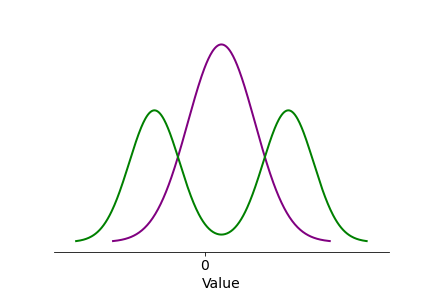
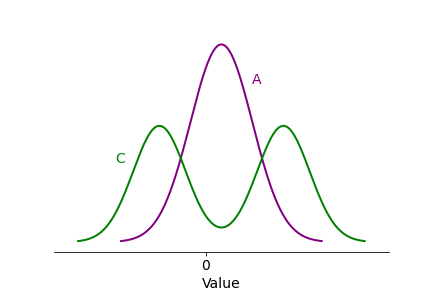
Nearly done (?) with distr_RL

Changed region(s): [[0.1806, 0.1562, 0.8426, 0.8438], [0.4514, 0.875, 0.5116, 0.9375]]

diff --git a/content/posts/2020_distr_RL/index.md b/content/posts/2020_distr_RL/index.md
@@ -4,48 +4,51 @@ date: 2020-12-01T07:04:28Z
 draft: true
 ---
 
-*How does your brain learn to distinguish good things from bad things, and perhaps even more difficult: something average from something that might either be very good or very bad? Are you an optimist or a pessimist, or both? And how exactly does one become one or the other?*
+<!-- 
+Todo:
+* Fotnoter på nåt vis?
+* A/B/C i figs
+-->
 
-Consider a situation where you need to decide on what to do next, and where you have reason to believe your decision will have some sort of positive or negative impact on yourself. If you happen to be a rat in a lab where someone is doing research on reinforcement learning, you might be choosing between two levers, where one dispenses food, and the other... yeah, of course, electric shocks. Thankfully, in our human lives we are rarely directly set up for pain in this way, but the general type of choice situation is still very common, with low, high, or intermediate stakes: Which food should I pick from the buffet table? Do I cross the street now, or would it be safer to wait for that car to pass first? Which ping pong serve shold I opt for against this opponent, when she is positioned in that way, at this point in the match? If I am ahead in the game, I might play it safe and do something easy and solid, setting me up nicely for a ball that I stand a good chance of winning, but if I am behind and tired (ping pong is hard work) I might prefer to go for my difficult Deluxe Extra(TM) serve, the one which few opponents can handle but which half of the times I try it goes straight into the net.
+*How does your brain learn to distinguish good things from bad things, and perhaps even more difficult: something average from something that might either be very good or very bad? Are you an optimist or a pessimist, or both? And how exactly does one become one or the other? This post talks about what kind of methods the brain mights be using for learning from experience, and an interesting recent development in this area combining both AI and neuroscience. The text covers some mathematical concepts, but tries to do so in a generally accessible way.*
 
-All of these situations share the common denominator of *uncertainty* - due to inherent randomness in the world, my limited information about the state of the world, or (typically) both. For each choice (lever, road-crossing time, food, ping pong serve) I might have a rough, but generally not an exact idea of what will happen next, and how good or bad that might be for me. We can illustrate it thus, as a distribution of the probable *values* (or *rewards/punishments*, or *utilities*) of making a certain decision:
+Consider a situation where you need to decide on what to do next, and where you have reason to believe your decision will have some sort of positive or negative impact on yourself. If you happen to be a mouse in a lab where someone is doing research on reinforcement learning - learning from rewards and punishments -  you might be choosing between two levers, where one dispenses food, and the other... yeah, of course, electric shocks. Thankfully, in our human lives we are rarely directly set up for pain in this way, but the general type of choice situation is still very common, with low, high, or intermediate stakes: Which food should I pick from the buffet table? Do I cross the street now, or would it be safer to wait for that car to pass first? Which ping pong serve shold I opt for against this opponent at this point in the match? If I am ahead in the game, I might play it safe and do something easy and solid, setting me up nicely for a ball that I stand a good chance of winning, but if I am behind and tired (ping pong is hard work) I might prefer to go for my difficult Deluxe Extra™ serve, the one which few opponents can handle but which half of the times I try it goes straight into the net.
+
+All of these situations share the common denominator of *uncertainty*. This uncertainty can be thought of as arising from inherent randomness in the world, from my limited information about the state of the world, or from both. For each choice (lever, road-crossing timing, food item, ping pong serve) I am likely have a rough but not exact idea of what will happen next, and how good or bad that might be for me. We can illustrate this as below, as a distribution of the probable *values* (or *rewards/punishments*, or *utilities*) of making a certain decision:
 
 ![A bell curve distribution of possible value](onegaussian.png)
 
-###Add plus and minus to indicate value sign###
-
 If the distribution curve above is the "truth" about a certain situation - the *actual* distribution of expected values of a decision (for a certain decision-maker with a certain access to information about the situation) - the curve illustrates a sort-of-OK but not entirely reliable decision. It might be choosing the plain cheese pizza from the buffet, or going for one of my more run of the mill ping pong serves. The curve above shows that the outcome is more likely to be good than bad (more of the distribution of values is to the positive, right side of zero), sometimes things can go really well (the right "tail" of the distribution), but negative outcomes are also very much within the realm of possibility. 
 
-It is clear that as decision-makers we quite often have this type of foreknowledge about our decisions. Since pizza and ping-pong both are relatively new inventions, they are not likely to be encoded in any way in our DNA (yet), meaning that any foreknowledge needs to have been acquired during the decision-maker's experience of previous similar decision situations, and stored in the decision-maker's brain somehow. Behold, a lifetime of cheese pizza slices, or attempts at that particular ping pong serve, in the form of a series of random draws from the probability distribution of values:
+It is clear that as decision-makers we quite often have this type of foreknowledge about our decisions. Since pizza and ping-pong both are relatively new inventions, they are not likely to be encoded in any way in our DNA (yet!), meaning that any foreknowledge needs to have been acquired during our experience of previous similar decision situations, and is stored in our brains somehow. Behold, a lifetime of cheese pizza slices, or attempts at that particular ping pong serve, in the form of a series of random draws from the probability distribution of values:
 
 ![A buildup of random values drawn from a bell curve distribution](onegaussian.gif)
 
-But how do these past experiences persist in the brain to form foreknowledge for decisions? One possibility could be that the brain remembers every single past event and exactly how well or badly it turned out, in other words storing the full and detailed set of outcomes shown above. That, however, doesn't sound quite economical. (Nor does it seem very similar to the subjective feeling of what decision-making is like, but that's not necessarily a good indicator of actual brain function). In mathematical models of reinforcement learning, for rats, humans, and robots alike, it is often instead assumed that decision-makers just keep track of a single expected value for the decision, roughly corresponding to an *average* over the values experienced in the past. More specifically, the models suggest that this happens by a simple rule: When the actual obtained value from a decision is better than our expectation (the pizza is tastier, the ping pong opponent more thrown off guard by our serve), for future reference we increase our expectation for that decision somewhat, and vice versa if the outcome is worse than expected. Here is the same life history as above, but now slowed down a little, and with an expected value - starting at zero just to start somewhere - and then ping ponging (!) about as it is getting updated after each observation:
+But how do these past experiences persist in the brain to form foreknowledge for decisions? One possibility could be that the brain remembers every single past event and exactly how well or badly it turned out, in other words storing the full and detailed set of outcomes shown above. That, however, doesn't sound quite economical. (Nor does it seem very similar to the subjective feeling of what decision-making is like, but that's not necessarily a good indicator of actual brain function). In mathematical models of reinforcement learning, for mice, humans, and robots alike, it is often instead assumed that decision-makers just keep track of a single expected value for the decision, roughly corresponding to an *average* over the values experienced in the past. More specifically, the models suggest that this happens by a simple rule: When the actual obtained value from a decision is better than our expectation (the pizza is tastier, the ping pong opponent more thrown off guard by our serve), for future reference we increase our expectation for that decision somewhat, and vice versa if the outcome is worse than expected. Here is the same life history as above, but now slowed down a little, and with an expected value - starting at zero (just to start somewhere) - and then ping ponging (!) about as it is getting updated after each observation:
 
 ![An expected average value prediction getting updated based on the same random values as above](onegaussian_oneestimator.gif)
 
-You may notice two things: First, to keep it simple, I have stuck above to updating the expectation by the same fixed amount after each observation (in many versions of this type of model the update is bigger when the deviation between expectation and observation is bigger, and quite often it is also assumed that the update becomes smaller over time). Second, after a while the expectation comes to hover around the location of the peak of the true distribution of values. This is because once the expectation is at this location, observed values will be better than expected 50 % of the time, and worse than expected the other 50 %, such that overall there is as much movement in both directions. In other words, the expected value *converges to* the average of the true distribution. (More specifically it converges to the distribution's median; in versions of the model with bigger updates for bigger prediction errors, it would converge toward the mean - for the example distribution here median and mean are the same, though.)
+You may notice two things: First, to keep it simple, I have stuck above to updating the expectation by the same fixed amount after each observation (in many versions of this type of model the update is bigger when the deviation between expectation and observation is bigger, and quite often it is also assumed that the update becomes smaller over time). Second, and importantly, after a while the expectation comes to hover around the location of the peak of the true distribution of values. This is because once the expectation is at this location, observed values will be better than expected 50 % of the time, and worse than expected the other 50 %, such that overall there is as much movement in both directions. In other words, the expected value *converges to* the average of the true distribution. (More specifically, it converges to the distribution's median; in versions of the model with bigger updates for bigger prediction errors, it would converge toward the mean - for the example distribution here median and mean are the same, though.)
 
 This is all well and good, but it only really starts becoming useful when I apply the same learning rule to several alternative decisions. Below is a lifetime of experience of *two* different buffet choices (maybe cheese pizza vs french fries) or two different ping pong serves:
 
 ![Random values drawn from two bell curve distributions with slightly different averages](twogaussians.gif)
 
-The value observations above come from two slightly different distributions - in other words the average values of the two options are not the same, but you can see that without the true distribution curves included things look rather messy (especially since I have opted to plot the two sets of observations "on top" of each other...), and it's hard to know what option to prefer. The reinforcement learning assumption, then, is that both of these past sets of experiences are kept track of by the same rule as mentioned above, but separately for each decision option. Here is the same set of observations again, slower, and with two of those little reinforcement learning ping pong balls, one for each decision option:
+The value observations above come from two slightly different distributions - in other words the average values of the two options are not the same, but you can see that without the true distribution curves (which in reality we never have access to) things look rather messy, and it's hard to know what option to prefer. The reinforcement learning assumption, then, is that both of these past sets of experiences are kept track of by the same rule as mentioned above, but separately for each decision option. Here is the same set of observations again, slower, and with two of those little reinforcement learning ping pong balls, one for each decision option:
 
 ![Expected average value predictions getting updated for the same random values drawn as in the previous figure](twogaussians_oneestimator.gif)
-###Add A and B for the options###
 
-You can see above that the reinforcement learning rather quickly settles on the idea that option A (let's say the pizza) is better, on average, than option B (the french fries), and that this is in line with the underlying true distributions - which I have included above, but which the reinforcement learning does not have access to at all. Thus, you can see that it is enough for a robot, or the brain of a rat or a human, to keep track of one such expectation per decision option, to know which option among a set of alternatives is likely to give the best average outcome - something which is obviously very useful when making these kinds of decisions.
+You can see above that the reinforcement learning rather quickly settles on the idea that option A (let's say the pizza) is better, on average, than option B (the french fries), and that this is in line with the underlying true distributions - which I have now included above for clarity. Thus, you can see that it is enough for a robot, or the brain of a mouse or of a human, to keep track of one such expectation per decision option, to know which option among a set of alternatives is likely to give the best average outcome - something which could obviously be very useful when making these kinds of decisions.
 
-In reality, there are of course lots of complications to this story. For example, the value of different decision alternatives might be highly context-dependent - what you expect from a food item is likely to depend on a lot of other pieces of information besides the crude identification of the item as "cheese pizza", like the exact appearance of the specific slice itself, and the general setting (are you in an Italian or a Swedish restaurant?). In this sense, we rarely face *exactly* the same decision situation multiple times, and a lot of the actual art of reinforcement learning lies in being able to make use of all of the specific bits of information available in a given situation, in a way that still draws meaningfully on past similar (but not identical) experiences, to nevertheless arrive at a sensible expectation of value for a decision option.
+In reality, there are of course lots of complications to this story. For example, the value of different decision alternatives might be highly context-dependent - what you expect from a food item is likely to depend on a lot of other pieces of information besides the crude identification of the item as "cheese pizza", such as the exact appearance of the specific pizza itself, and the general setting (are you in an Italian or a Swedish restaurant?). In this sense, we rarely face *exactly* the same decision situation multiple times, and a lot of the actual art of reinforcement learning lies in being able to make use of all of the specific bits of information available in a given, mostly novel situation, in a way that still draws meaningfully on past similar (but not identical) experiences, to arrive at a sensible expectation of value for each decision option.
 
-The specific complication I would like to highlight here, however, relates to the observation that quite often just an expectation of average value isn't enough. In the example A-B choice above, the spread of values was similar between the two options, but what if it instead had looked like this?
+The specific complication I would like to highlight here, however, relates instead to the observation that quite often just an expectation of average value doesn't provide a very complete picture of the options at hand. In the example A-B choice above, the spread of values was similar between the two decision alternatives, but what if it instead had looked like this?
 
 ![Two bell curve distributions, with one having a lower average but also a more narrow spread](twogaussians_diffvar.png)
 
-A is still better than B on average, but now A carries an element of risk: Its leftmost tail extends to more negative values than the leftmost tail of B, meaning that if we are unlucky, choosing A *could* turn out to be a much worse option than B. Consider for example the road-crossing situation I mentioned earlier. Crossing in front of the car (option A) will on average get us to our goal more quickly than waiting for the car to pass (option B), but it might be that the car is driving at a high speed, causing a very negative outcome in the form of a crash or a scary near-miss.
+A is still better than B on average, but now A carries an element of risk: Its leftmost tail extends to more negative values than the leftmost tail of B, meaning that if we are unlucky, choosing A *could* turn out to be a much worse option. This type of risk assessment is part of for example the road-crossing situation I mentioned earlier: Crossing in front of the car (option A) will on average get us to our goal more quickly than waiting for the car to pass (option B), but it might be that the car is driving at a high speed, such that crossing in front if it might cause a very negative outcome in the form of a crash or a scary near-miss.
 
-And there is really no limit to how complicated these value distributions can be. Consider the choice of ping pong serve, where my difficult Deluxe Extra(TM) signature serve yields one of two very distinct possibilities, either a very high likelihood of winning the ball, or an immediate loss, as illustrated by distribution C below:
+And there is really no limit to how complicated these value distributions can be. Consider the choice of ping pong serve, where as mentioned my difficult Deluxe Extra™ signature serve yields one of two very distinct possibilities, either a high likelihood of winning the ball, or an immediate loss, as (schematically) illustrated by distribution C below:
 
 ![One bell curve distribution, and another distribution consisting of two bell curves on either side of the first distribution's peak](oneandtwogaussians.png)
 
@@ -56,46 +59,42 @@ You might notice that above I have sneakily positioned the peaks of the C distri
 
 (The expectation for C drifts around more than the one for A, because there are less observations near the average for C, making the convergence weaker, but the averages for A and C are the same.) 
 
-This leads us to the idea of *distributional reinforcement learning*, and the whole thing about optimism and pessimism I mentioned at the outset.  The update rule we have used so far treats positive and negative value prediction errors (the deviations between expected and observed value) the same, something we could perhaps visualise as follows:
+This leads us, at long last, to what I said about optimism and pessimism at the outset of this post. The update rule we have used so far treats positive and negative value prediction errors (the deviations between expected and observed value) the same, something we could perhaps visualise as follows - the expectation moves equal distances in both directions:
 
 ![Circle representing the estimator, with two equal-length arrows extending from the estimator to the left and right](averageestimator.png)
 
-AI researchers, however, came up with a neat idea: What if the estimator responds more to one type of error, for example updating the expectation more if the observed value is lower than expected, like so?:
+AI researchers, however, have come up with a neat idea: What if the expectation were to respond more strongly to one type of error, for example updating the expectation more if the observed value is lower than expected, like so?:
 
-![Circle representing the estimator, with two equal-length arrows extending from the estimator to the left and right](pessimistestimator.png)
+![Circle representing the estimator, with a long arrow to the left and a short arrow to the right](pessimistestimator.png)
 
-Look what happens now:
+Look what happens now, when the expectation takes larger "jumps" to the left:
 
-![Random values drawn from a single bell curve distribution, and an estimator getting updated using these, with a larger update for negative prediction errors](onegaussian_onepessimistestimator.gif)
+![Random values drawn from a single bell curve distribution, and an estimator getting updated from these observations, with a larger update for negative prediction errors](onegaussian_onepessimistestimator.gif)
 
-This expectation no longer converges to the average of the distribution, but instead to a lower, more  *pessimistic* expectation. The exact place in the distribution it converges to depends on the exact balance of how it responds to positive and negative prediction errors (the relative lengths of the leftward and rightward arrows in the illustration). We can now define as many of these expectations as we want, with different degrees of pessimism, or analogously different degrees of optimism, for expectations that get updated more for positive prediction errors:
+And for the two-peaked distribution:
 
-![Random values drawn from the same bell curve distribution, but now with five different estimators of differing degrees of optimism or pessimism, converging to different values](onegaussian_fiveestimators.gif)
+![Random values drawn from a distribution with two bell curve peaks, and an estimator getting updated from these observations, with a larger update for negative prediction errors](twogaussians_onepessimistestimator.gif)
 
-###Plot different estimators at different y locations###
+See what happened here? This type of expectation no longer converges to the average of the distribution, but instead to a lower, more *pessimistic* expectation. It will converge to a place where most often the observations are larger than its expectation, but since it only moves very little in response to these errors, and instead it moves a lot to the left at those few occasions where things happen to be even worse than it expects, things balance out. 
 
-... doesn't respond much to positive prediction errors. This means that whenever that guy sees something that is better than he is predicting, he will only very weakly respond to it, and not update his prediction much, but when something is worse than his prediction, this will cause a larger shift. The effect is as follows:
+I find this a fascinating perspective on what it might mean to be a pessimist. Typically, this is defined as "having low expectations" or something similar - but where does that expectation come from? The reinforcement learning type of definition operates at this level instead, defining a pessimist as someone who isn't very impressed by things going better than expected, but who responds to any setback with a resounding "told you so!!". Conversely, an optimist is someone who says "told you so!!" when things go better than expected, and who isn't much affected by setbacks. In other words, the optimist is this guy:
 
-GIF: A and C with pessimist learning rule
+![Circle representing the estimator, with a short arrow to the left and a long arrow to the right](optimistestimator.png)
 
-Notice what happened? Even though this prediction is wrong more than half of the time, most often predicting too small values, since the learning rule cares relatively less about these positive errors, a balance will be achieved at a value that is lower than the average. About serve A it will say.. About C: it will go into the net! ... In short, this learning rule is a pessimist. I think this is interesting... Rather than just saying that a pessimist is someone who thinks things will generally go badly, we can consider the pessimist as someone who is not so easily impressed by good news, but as soon as bad news arrive he goes "I told you so!" and massively adapts to that occasion.
+From these differing modes of responding to good news and bad news, the low versus high expectations typical of pessimists and optimists then emerge.
 
-And you might have guessed that to become optimist in our predictions, we just need to do the opposite, and care more about good news (positive prediction errors) than bad ones (negative prediction errors). Let's put all three learning rules together:
+To keep track of an entire *distribution* of values for a decision option, we can now choose to learn a set of different expectations, of varying degrees of pessimism and optimism. This is of course a bit more work than just maintaining a single expected average per decision, but still much less than remembering every past event, and importantly it allows us to finally tell our two ping pong serves apart. As you can see below, for the conservative serve (the single-peaked distribution) the optimistic and pessimistic expectations are just minor tweaks of the average expectation, whereas for the Deluxe Extra™ serve (the double-peaked distribution), the different expectations now clearly express both the positive cheer of "this serve will win you the ball straight away" versus the gloomier "you'll just put it in the net". 
 
-FIG: three learning rules
+![Random values drawn from a single bell curve distribution, with five different estimators of differing degrees of optimism or pessimism, converging to different values](onegaussian_fiveestimators.gif)
 
-GIF: A and C with three learning rules
+![Random values drawn from a distribution with two bell curve peaks, with five different estimators of differing degrees of optimism or pessimism, converging to different values](twogaussians_fiveestimators.gif)
 
-So now, instead of remembering each past separate occasion of A and C separately, we are keeping track of these three predictions, and this allows us to separate the safe ping pong serve from the Deluxe Extra(TM)... 
+Above I have now also plotted the exact locations these various expectations should converge to theoretically (these are *quantiles* of the distributions, and would be *expectiles* in the version of the learning rule which takes larger update steps for larger errors). 
 
-This works for any shape of the distribution of value, and we can add arbitrary numbers of little predictors of varying degrees of optimism. You can play around with this figure if you want...
+AI researchers call this *distributional reinforcement learning*, and in an exciting turn of events, it was recently shown that also biological brains might be doing pretty much exactly the same thing - a very nice example of neuroscience insight arising out of ideas in machine intelligence. It has been established for quite a while that brains keep track of something which looks like expected average values of decisions, but after seeing the benefits of distributional reinforcement learning algorithms in artificial agents a bunch of researchers at DeepMind got curious. Armed with insights and predictions arising from the AI research, these researchers designed experiments with mice (but without electric shocks!) where they were able to identify individual neurons which seemed to be involved in value predictions of similar optimistic and pessimistic nature as described above. From these neurons the researchers were able to decode entire distributions of value expectations, matching well with the true distributions in the specific environments the mice were experiencing. (See [here](https://www.nature.com/articles/s41586-019-1924-6) for the published paper, and [here](https://deepmind.com/blog/article/Dopamine-and-temporal-difference-learning-A-fruitful-relationship-between-neuroscience-and-AI) for their very nice blog post about it.)
 
-FIG: Choosing arbitrary two-peak distribution, and arbitrary number of predictors
+It is probably not too far-fetched to assume, then, that also we humans engage in something like distributional reinforcement learning, with different value-estimating groups of neurons in our brains making diverse predictions about our decision options, from gloomy to rosy. In that sense, we are all simultaneously both pessimists and optimists.
 
-AI researchers call this *distributional reinforcement learning*... Excitingly, it has recently been shown that actually the brain might be doing exactly this. At least in rats... Measured activity in brain ZZZ detailsZZZ ... It's a nice example of a theoretical idea in AI that is borne out in actual neurobiology... 
-
-So it might be that we are all actually both optimists and pessimists, in the sense that we are always simultaneously making both optimistic and pessimistic (and average) predictions about the outcomes of our choices.
-
-If you want a little more mathsy detail, interactive figures, and/or the code behind the figures above, see here.
+If you want a little more mathsy detail, interactive figures, and/or the code behind the figures in this post, see here.
 
 
